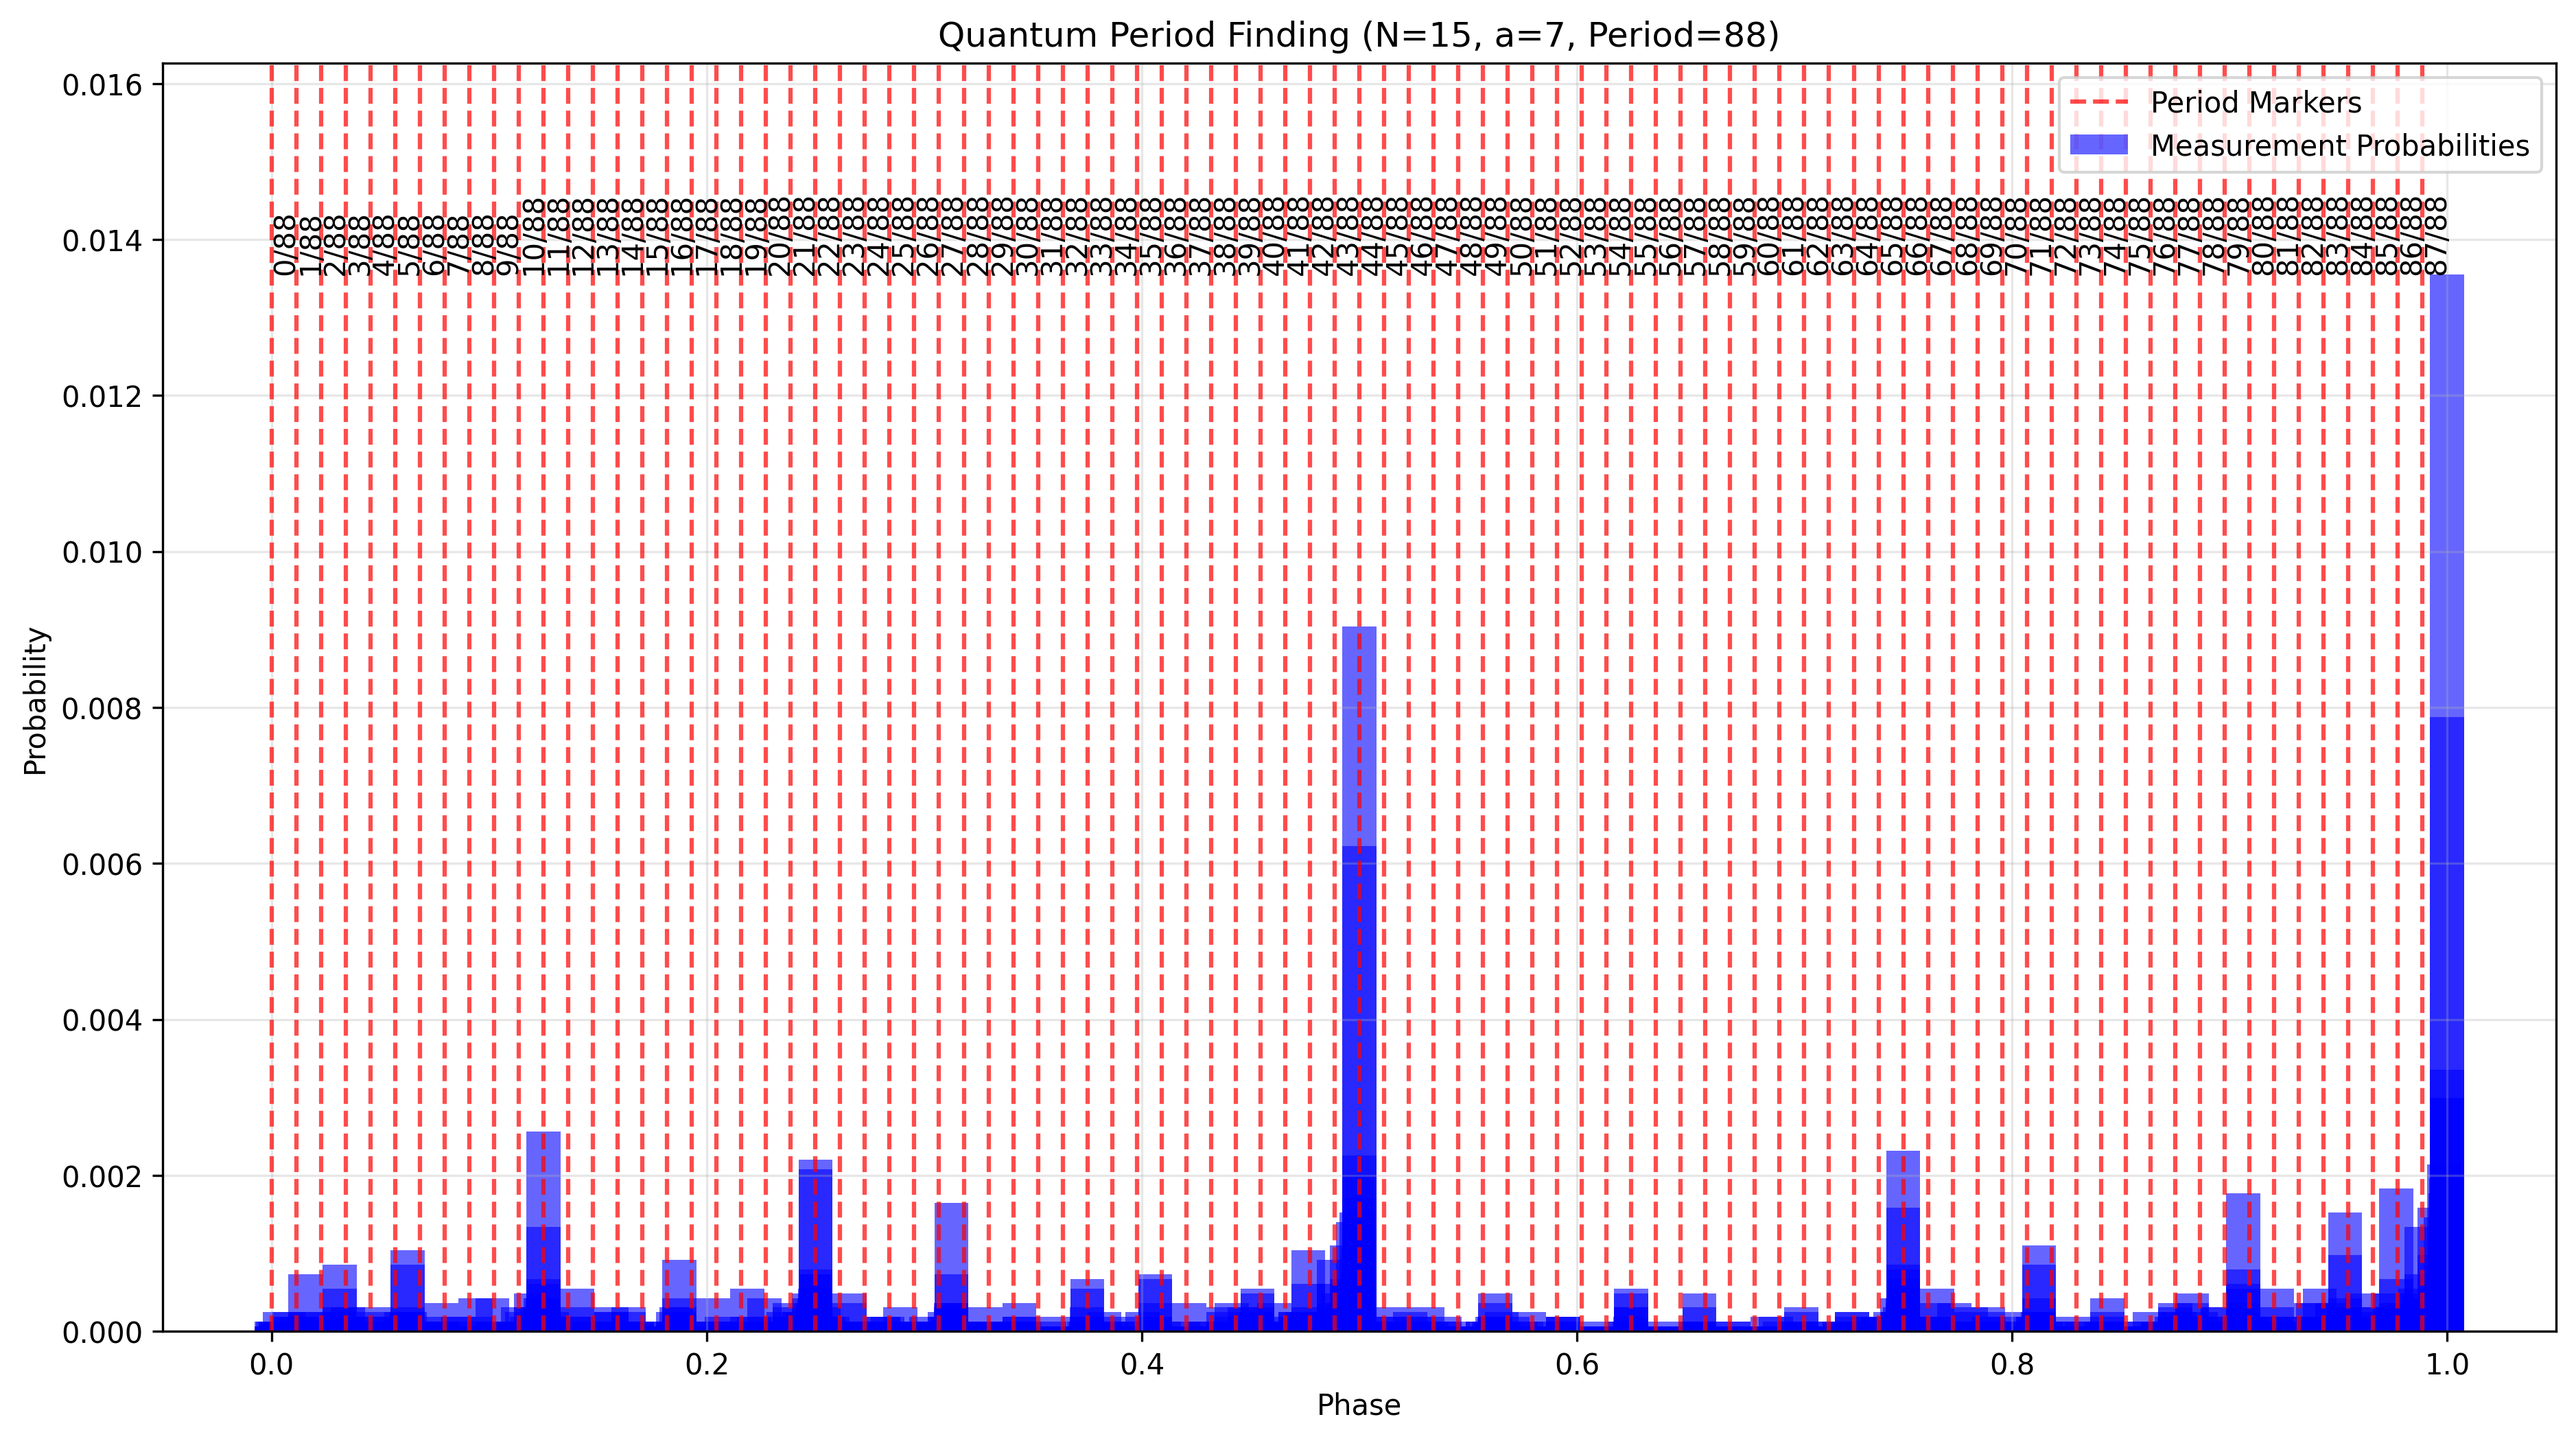
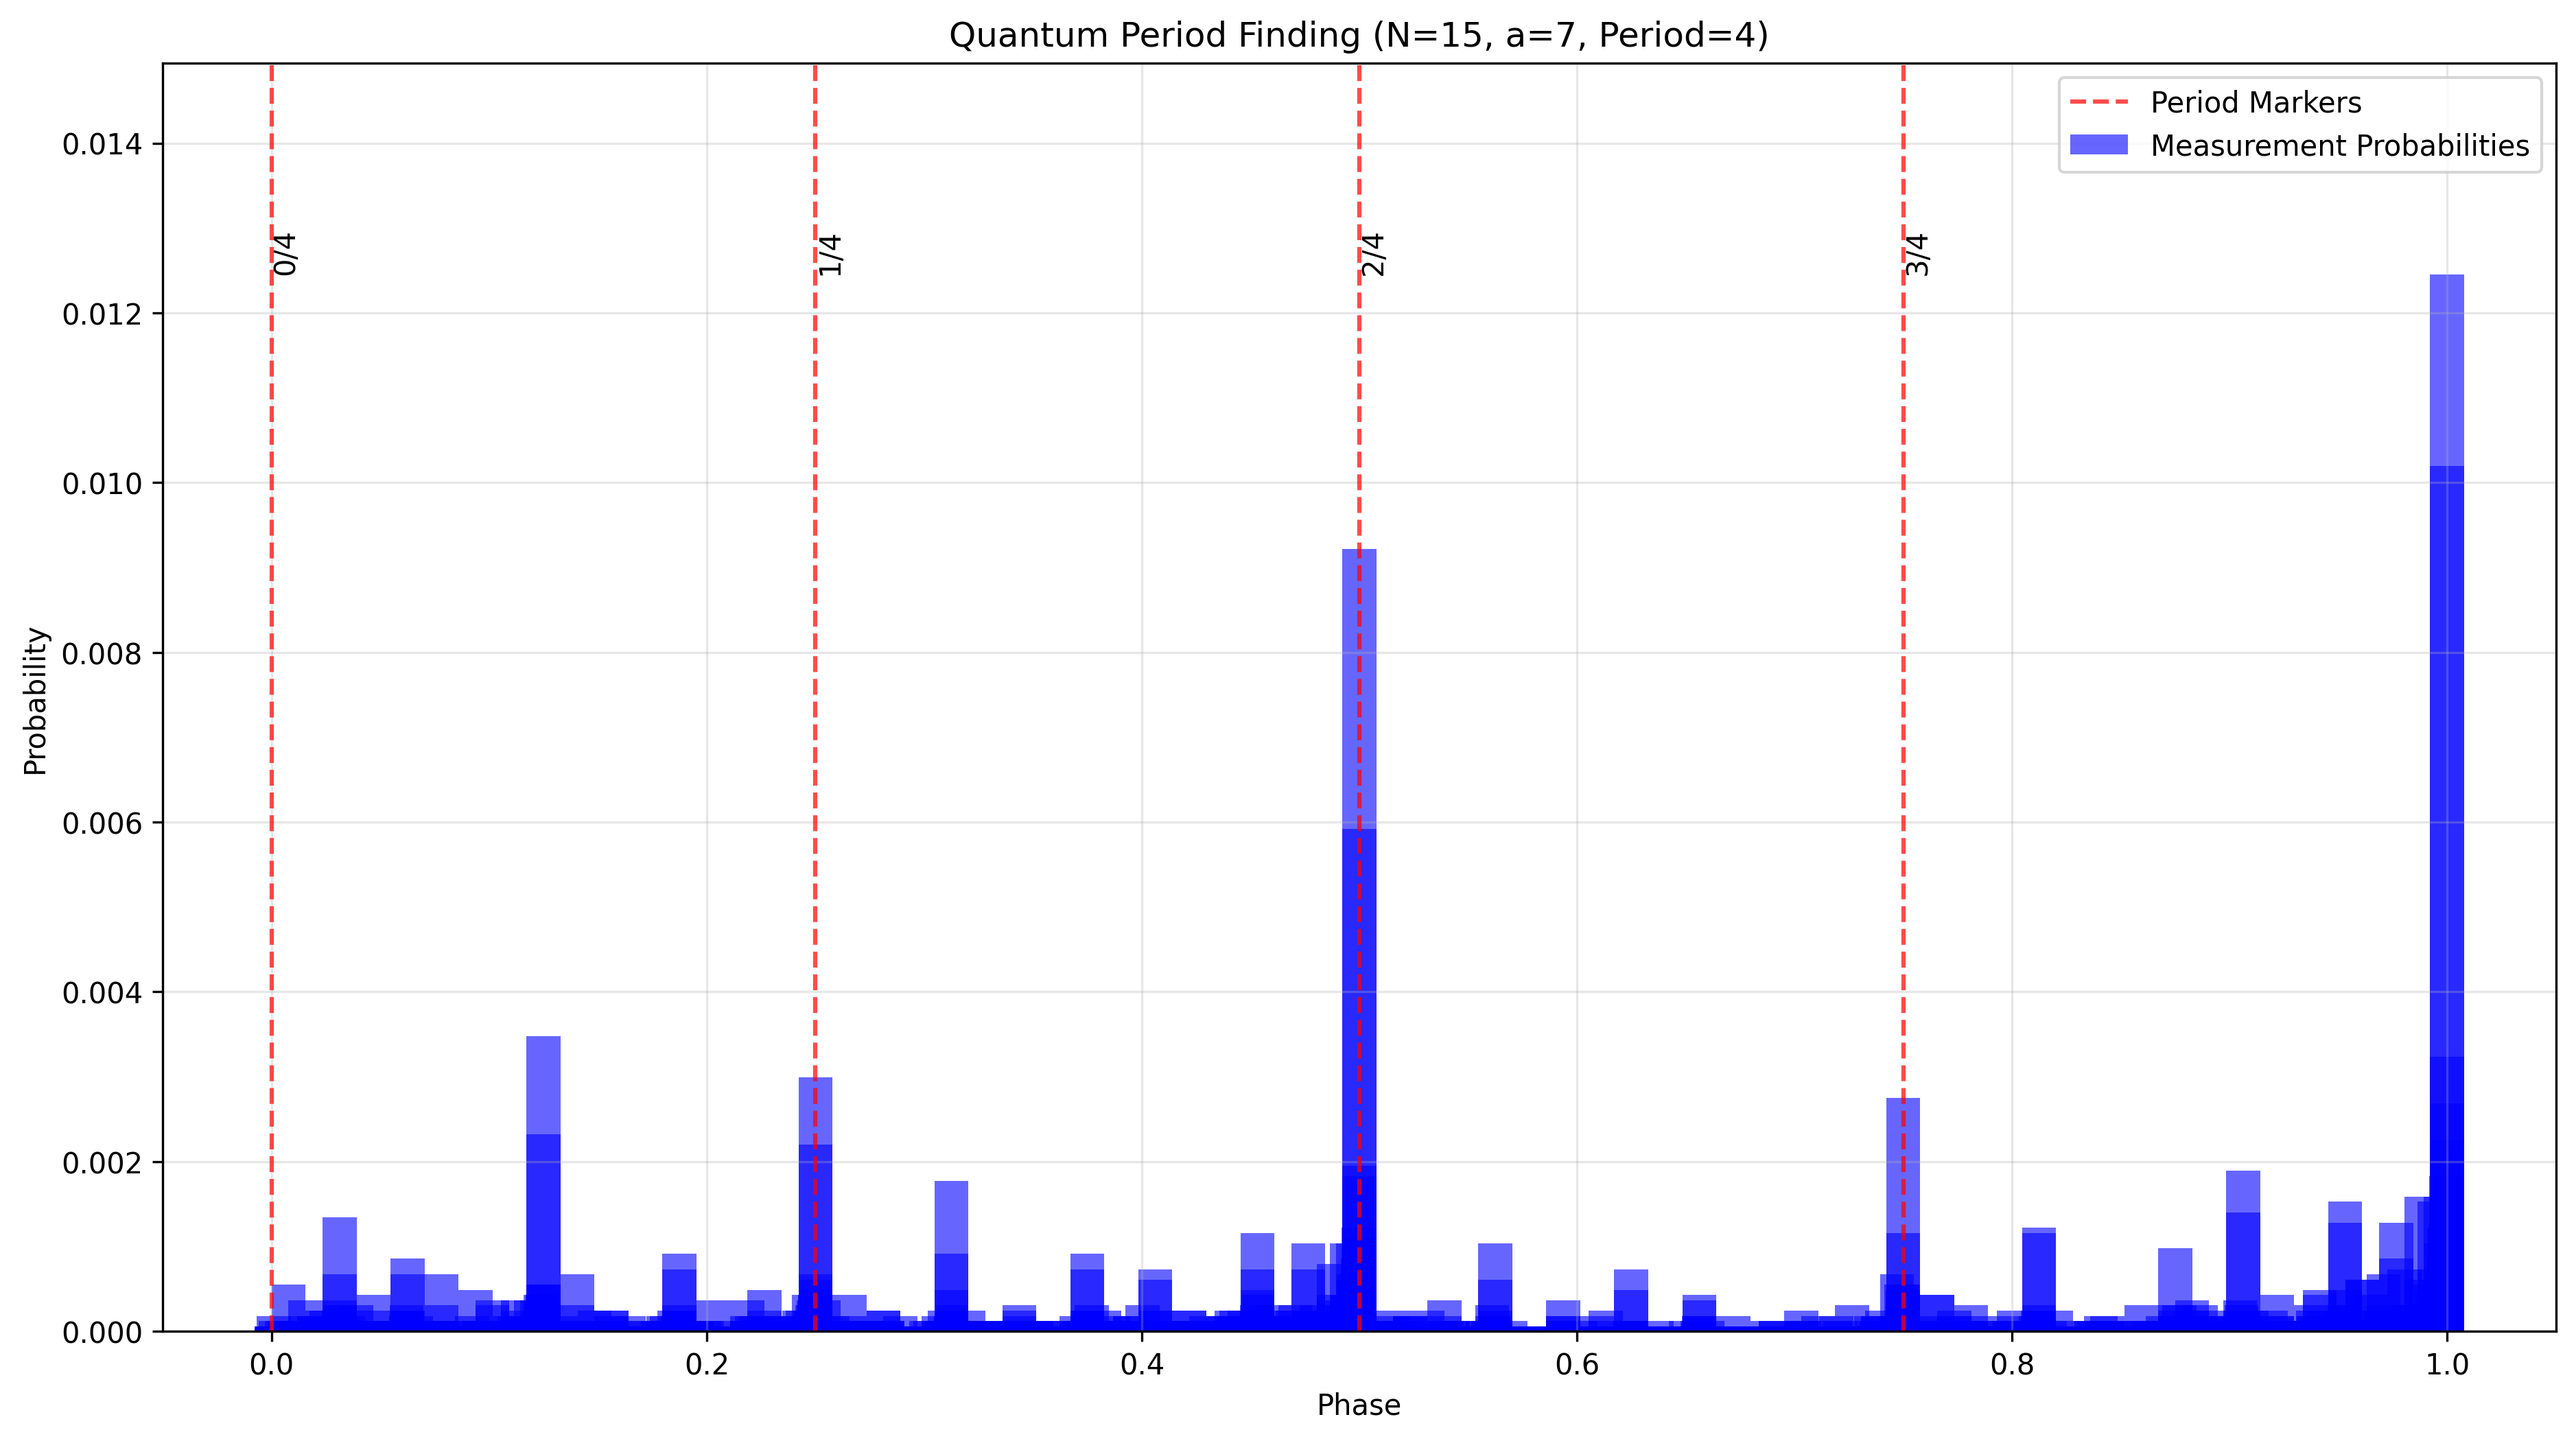
Updated period calculation and visualization

diff --git a/shor_algorithm.py b/shor_algorithm.py
@@ -63,8 +63,8 @@ def run_shor_algorithm(N, a):
     job = simulator.run(transpile(qc, simulator), shots=1024)
     counts = job.result().get_counts()
     
-    # Extract period
-    r = extract_period(counts, N)
+        # Extract period - Updated to pass 'a'
+    r = extract_period(counts, N, a)
     if not r:
         return None, None
         
@@ -79,15 +79,29 @@ def run_shor_algorithm(N, a):
         
     return factor1, factor2
 
-def extract_period(counts, N):
-    """Extract period from measurement counts."""
+def extract_period(counts, N, a):
+    """Extract period r where a^r ≡ 1 (mod N)"""
+    # First find quantum measurement differences
     measured_values = [int(key, 2) for key in counts.keys()]
     measured_values.sort()
-
+    
+    # Calculate possible periods from measurements
+    periods = []
     for i in range(1, len(measured_values)):
         r = measured_values[i] - measured_values[i-1]
-        if r > 0 and modular_exponentiation(2, r, N) == 1:
+        if r > 0:
+            periods.append(r)
+    
+    # Verify each candidate period
+    for r in periods:
+        if modular_exponentiation(a, r, N) == 1:
             return r
+            
+    # Direct period calculation if measurement fails
+    for r in range(1, N):
+        if modular_exponentiation(a, r, N) == 1:
+            return r
+            
     return None
 
 if __name__ == "__main__":

diff --git a/visualize_circuit.py b/visualize_circuit.py
@@ -76,7 +76,7 @@ def plot_probability_peaks(N, a):
         phases.append(phase)
         probabilities.append(count/total_shots)
     
-    r = extract_period(counts, N)
+    r = extract_period(counts, N, a)
     
     plt.figure(figsize=(15, 8))
     plt.bar(phases, probabilities, width=0.5/(2**n_count), 

diff --git a/README.md b/README.md
@@ -32,11 +32,11 @@ This project demonstrates the implementation of Shor's Algorithm, a quantum algo
    - Controlled modular exponentiation.
    - Inverse QFT.
 
-   ![Circuit Diagram for N=15 and a=7] (examples/shor_circuit.png)
+   ![Circuit Diagram for N=15 and a=7](examples/shor_circuit.png)
 
 2. **Probability Peaks**: A histogram displaying the probability of measured phases. The red dashed lines indicate expected periodicity based on the algorithm's results. This helps visualize the quantum period-finding process and highlights key phases contributing to factorization. Note that these graphs demonstrate probabilities and are best interpreted with multiple runs to mitigate probabilistic noise.
 
-   ![Probability Peaks for N=15 and a=7] (examples/probability_peaks.png)
+   ![Probability Peaks for N=15 and a=7](examples/probability_peaks.png)
 
 ## Important Notes
 
